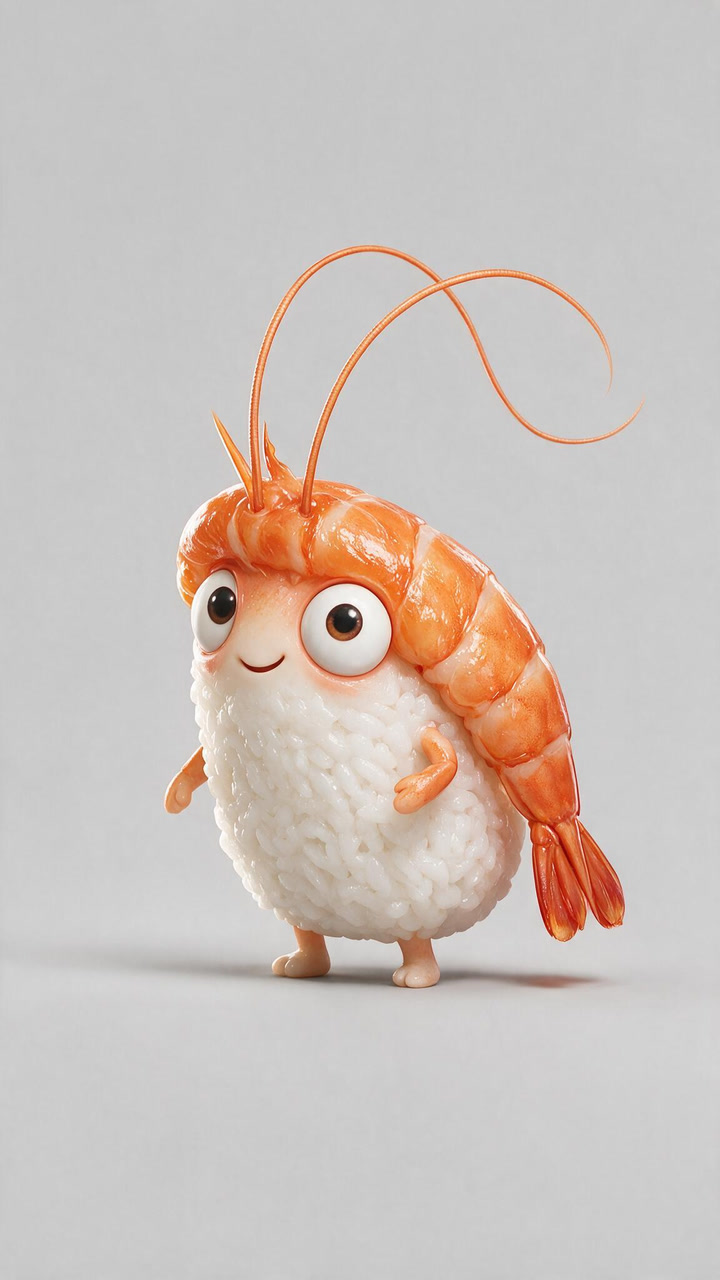
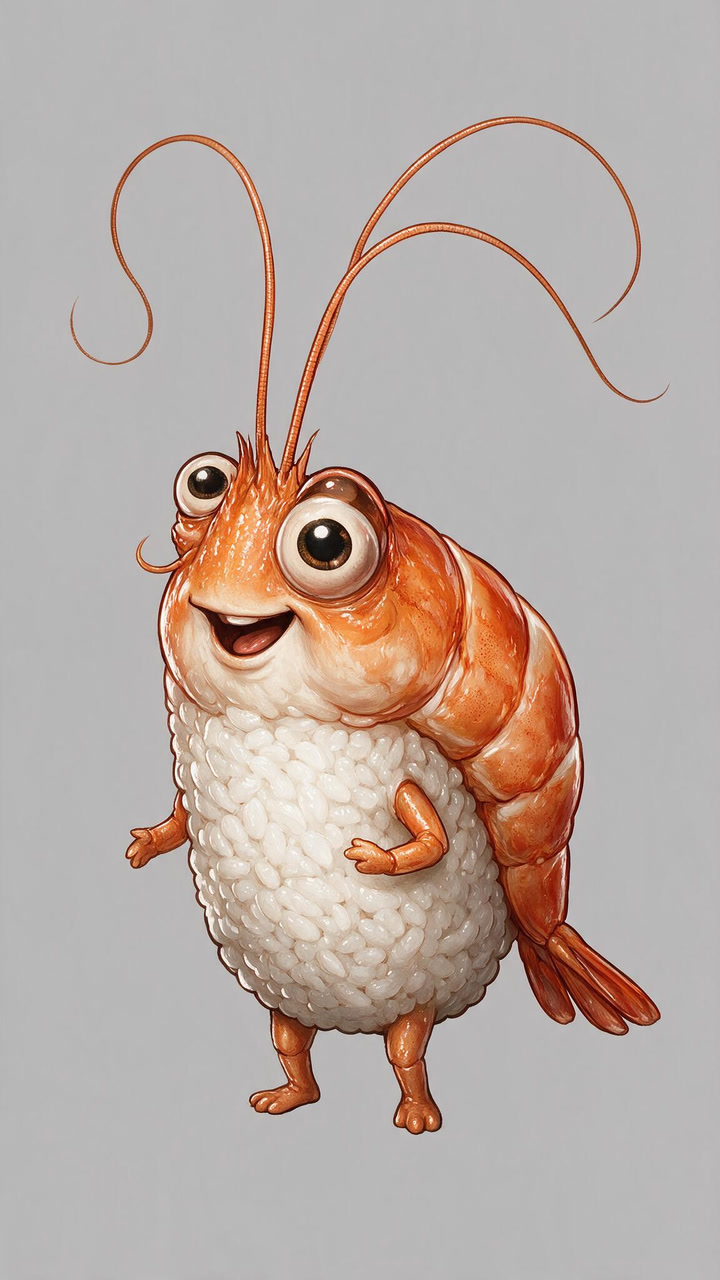
Story assets: candidates / picks [skip ci]

diff --git a/docs/story-import/assets-paint-last-run.md b/docs/story-import/assets-paint-last-run.md
@@ -1,6 +1,6 @@
-# 物語の素材・候補 — 2026-10-13T03:55:21.560Z
+# 物語の素材・候補 — 2026-10-13T03:59:08.021Z
 
 Seedream 5.0 Pro / 約27円
 
 - ✅ エビ（人物・c-1n955os）候補 3/3
-  - 注文: Character design for a warm, kid-friendly Japanese anime adventure, the finest anime film quality. The character: (仮・パイプラインの試し) a small cheerful shrimp creature shaped like a piece of ebi nigiri sushi: a glossy orange-red shrimp body lying on a soft white rice-ball body, big round friendly eyes, tin…
+  - 注文: A character for the same world as the 5 reference characters, drawn in exactly their illustration style: highly detailed hand-painted rendering, rich tactile materials (fur, cloth, carved wood, metal, embroidery), intricate ornamental patterns, a slightly eerie yet charming dark-fantasy mood, muted …
